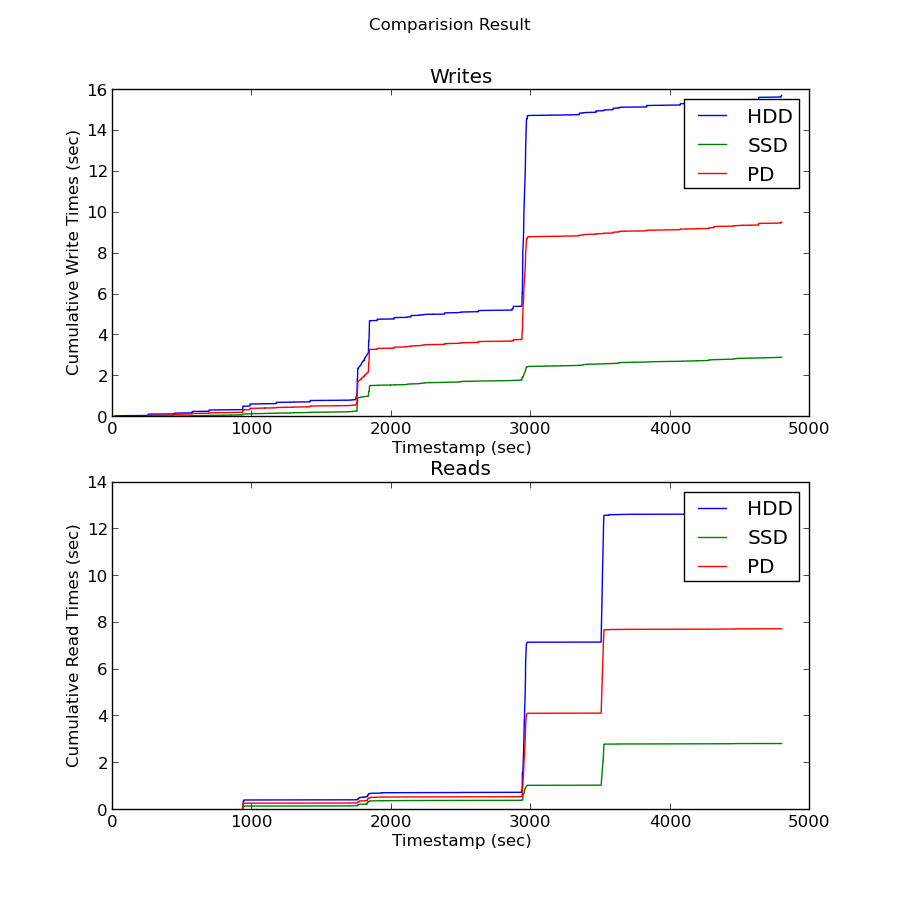
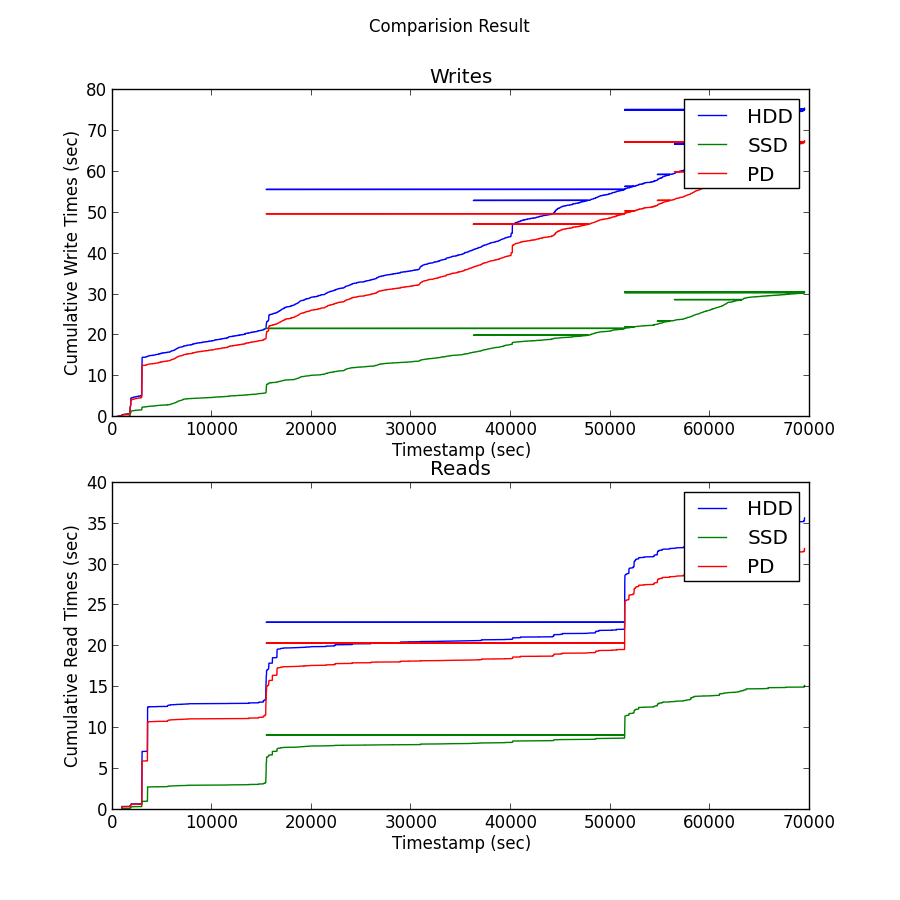
added the phoenix_curve code

diff --git a/VirtualEnvironment.py b/VirtualEnvironment.py
@@ -97,8 +97,9 @@ class VirtualEnvironment:
 
 
 class HDD(VirtualEnvironment):
-    def __init__(self):
+    def __init__(self, size):
         self.drive_type = "HDD"
+        self.size = size
         VirtualEnvironment.__init__(self)
         
 
@@ -110,12 +111,12 @@ class HDD(VirtualEnvironment):
         # According to wikipedia, average seek time is ~8-12ms
         # However, to dramatize the difference, I'll increase the range
         # to 5~15ms.
-        seek_time = random.randrange(500, 1500) / 100.0 / 1000000 # ends up with units of seconds
+        seek_time = randrange(500, 1500) / 100.0 / 1000000 # ends up with units of seconds
         
         # Max read rate for an average HDD is ~ 140 MB/s
         # (we should probably check the numbers somewhat more if we can)
         # so let's put in a range from 80,000 to 140,000 kB/s).
-        lookup_rate = random.randrange(80000,140000) # in kB/s
+        lookup_rate = randrange(80000,140000) # in kB/s
         file_size_kb = float(file_size) / 1000 #file_size should come in bytes
         read_time = seek_time + file_size_kb / lookup_rate 
 
@@ -123,15 +124,16 @@ class HDD(VirtualEnvironment):
 
     def WriteFile(self,file_size):
         #print "Write file on the virtual HDD environment"
-        write_rate = random.randrange(80000,140000) #same range?
+        write_rate = randrange(80000,140000) #same range?
         file_size_kb = float(file_size) / 1000 #file_size should come in bytes
         write_time = float(file_size_kb) / write_rate
         return write_time
 
 
 class SSD(VirtualEnvironment):
-    def __init__(self):
+    def __init__(self,size):
         self.drive_type = "SSD"
+        self.size = size
         VirtualEnvironment.__init__(self)
 
     
@@ -153,17 +155,19 @@ class SSD(VirtualEnvironment):
         
 
 class PD(VirtualEnvironment):
-    def __init__(self):
+    def __init__(self,hdd_size,ssd_size):
         self.drive_type = "PD"
-        self.HDD = HDD()
-        self.SSD = SSD()
+        self.HDD = HDD(hdd_size)
+        self.SSD = SSD(ssd_size)
+        self.total_size = hdd_size+ssd_size
+        self.ssd_size = ssd_size
         VirtualEnvironment.__init__(self)
         
 
     def ReadFile(self, file_size):
         #print "Read file on the virtual Phoenix Drive environment"
         #eventually do this based on file extensions and other parameters, for now just choose at random
-        drive = choice(['hdd', 'ssd'])
+        drive = "hdd" if randrange(0,self.total_size) > self.ssd_size else 'ssd'
         if drive == 'hdd':
             read_time = self.HDD.ReadFile(file_size)
             #temp_hdd = new HDD()
@@ -174,7 +178,7 @@ class PD(VirtualEnvironment):
 
     def WriteFile(self, file_size):
         #print "Write file on the virtual Phoenix Drive environment"
-        drive = choice(['hdd', 'ssd'])
+        drive = "hdd" if randrange(0,self.HDD.size+self.SSD.size) > self.SSD.size else 'ssd'
         if drive == 'hdd':
             write_time = self.HDD.WriteFile(file_size)
         else :

diff --git a/Simulator.py b/Simulator.py
@@ -44,6 +44,19 @@ class Simulator:
         print "Analyzing the result of the simulation"
         self.env.reporter.display_results()
 
+def generate_phoenix_curve_plot(io_time,ssd_sizes):
+    fig = plt.figure(figsize=(9,9))
+    fig.suptitle("Phoenix Curve")
+    io_time_plot = fig.add_subplot(2,1,1)
+    io_time_plot.set_title("Total i/o vs. ssd buffer size")
+    io_time_plot.set_xlabel("ssd sixe (Gb)")
+    io_time_plot.set_ylabel("Cumulative i/o Times (sec)")
+    print(len(io_time) )
+    print(len(ssd_sizes) )
+    io_time_plot.plot(ssd_sizes,io_time)
+    plt.savefig("phoenix_curve.png")
+
+
 def Compare(filename, reporters):
 
         fig = plt.figure(figsize=(9,9))
@@ -68,7 +81,43 @@ def Compare(filename, reporters):
         writes.legend()
         reads.legend()
         plt.savefig(filename)
-    
+
+def phoenix_curve_study(traces):
+    pd_io_times = []   
+    # Initiate Simulators
+    ssd_max_size = 128
+    hdd_max_size = 1024
+    ssd_sizes = range(0,ssd_max_size,10) + [ssd_max_size]
+    print(ssd_sizes)
+    hdd_step = float(hdd_max_size)/ssd_max_size    
+    for ssd_size in ssd_sizes:
+        hdd_size = hdd_max_size - (ssd_size*hdd_step)
+        print("initializing simulators")
+        pd_simulator = Simulator( traces, PD(hdd_size,ssd_size) )
+        print("running pd")
+        pd_simulator.Simulate()
+        print("saving results")
+        pd_io_times.append(pd_simulator.env.reporter.total_io_time)
+    print(len(pd_io_times) )
+    print(len(ssd_sizes) )
+    generate_phoenix_curve_plot(pd_io_times,ssd_sizes)
+
+def drive_type_comparitive_study(traces):
+     # Initiate Simulators
+    hdd_simulator = Simulator( traces, HDD(1024) )
+    ssd_simulator = Simulator( traces, SSD(128) )
+    pd_simulator = Simulator( traces, PD(300,64) )
+
+    # Run Simulators
+    hdd_simulator.Simulate()
+    ssd_simulator.Simulate()
+    pd_simulator.Simulate()
+
+    # Analyze and Compare the Results
+    Compare('comparison.png',
+            [hdd_simulator.env.reporter,
+             ssd_simulator.env.reporter,
+             pd_simulator.env.reporter])
     
 if __name__ == '__main__':
 
@@ -82,22 +131,9 @@ if __name__ == '__main__':
 
     traces = [trace1]
 
-    # Initiate Simulators
-    print("initializing simulators")
-    hdd_simulator = Simulator( traces, HDD() )
-    ssd_simulator = Simulator( traces, SSD() )
-    pd_simulator = Simulator( traces, PD() )
+    drive_type_comparitive_study(traces)
+    # phoenix_curve_study(traces)
 
-    # Run Simulators
-    print("running hdd")
-    hdd_simulator.Simulate()
-    print("running ssd")
-    ssd_simulator.Simulate()
-    print("running pd")
-    pd_simulator.Simulate()
-    # Analyze and Compare the Results
-    Compare('comparison.png',
-            [hdd_simulator.env.reporter,
-             ssd_simulator.env.reporter,
-             pd_simulator.env.reporter])
-
+    
+    
+    
